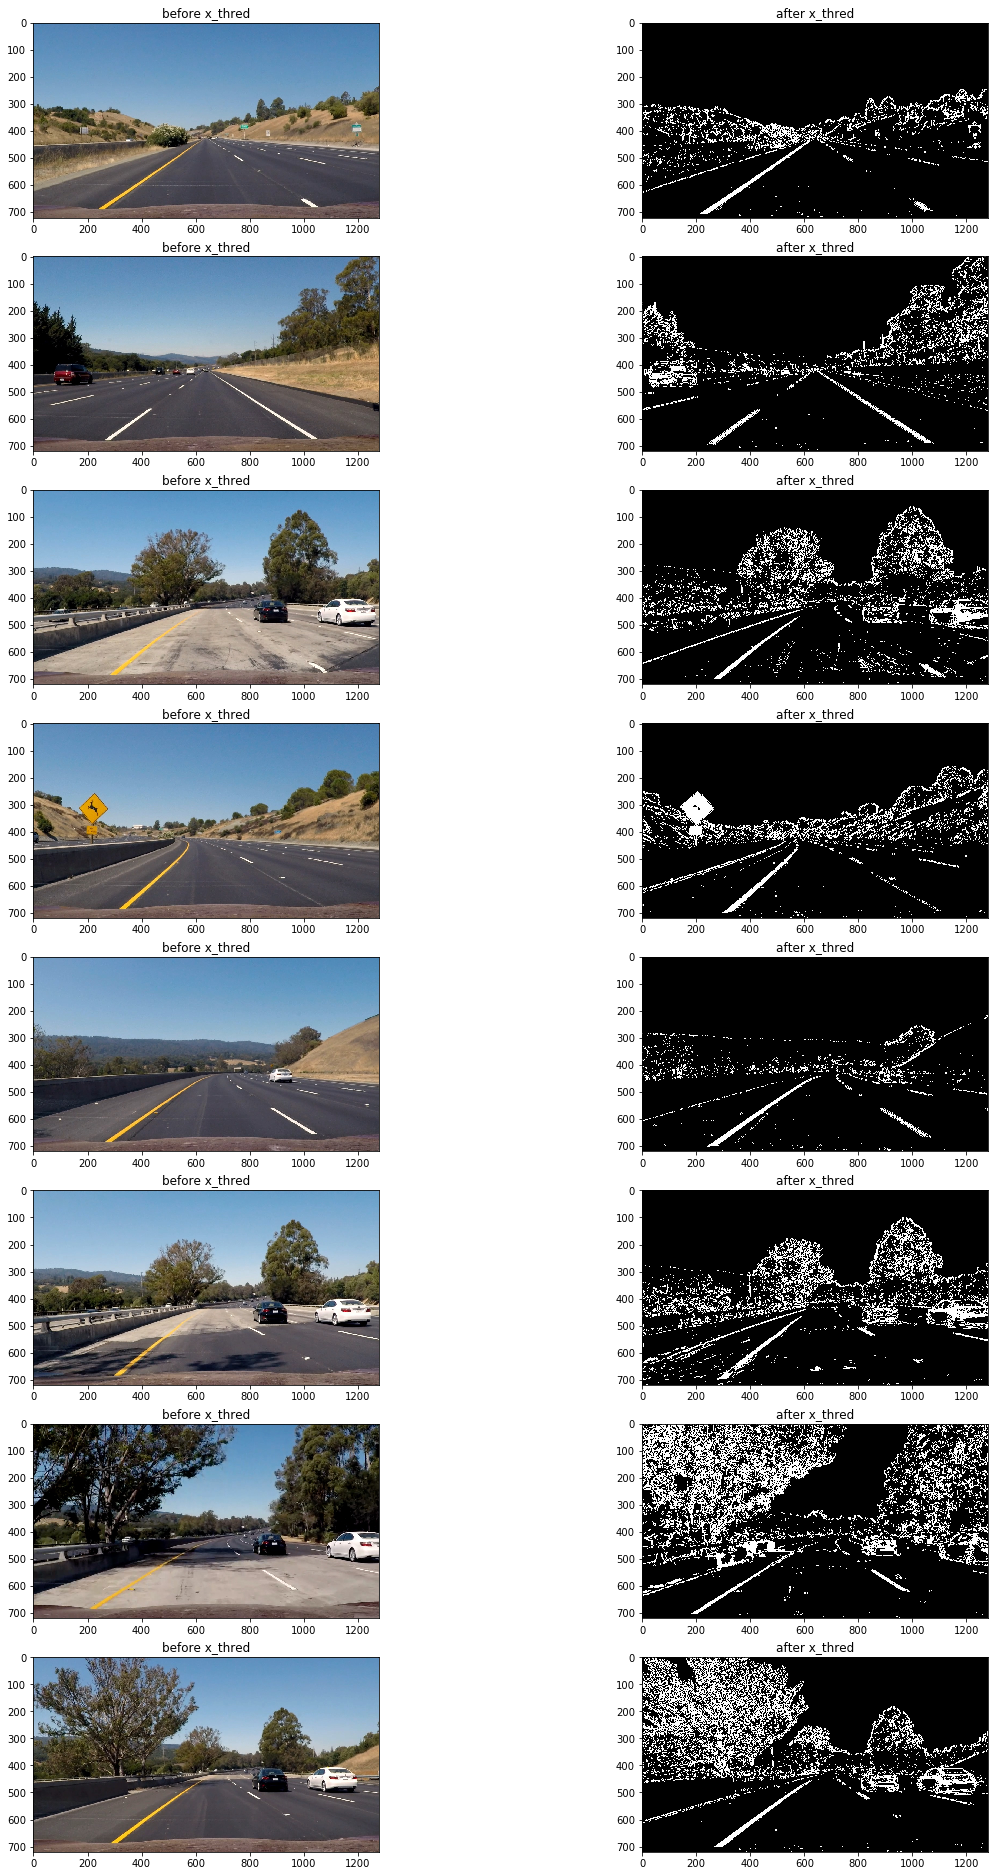
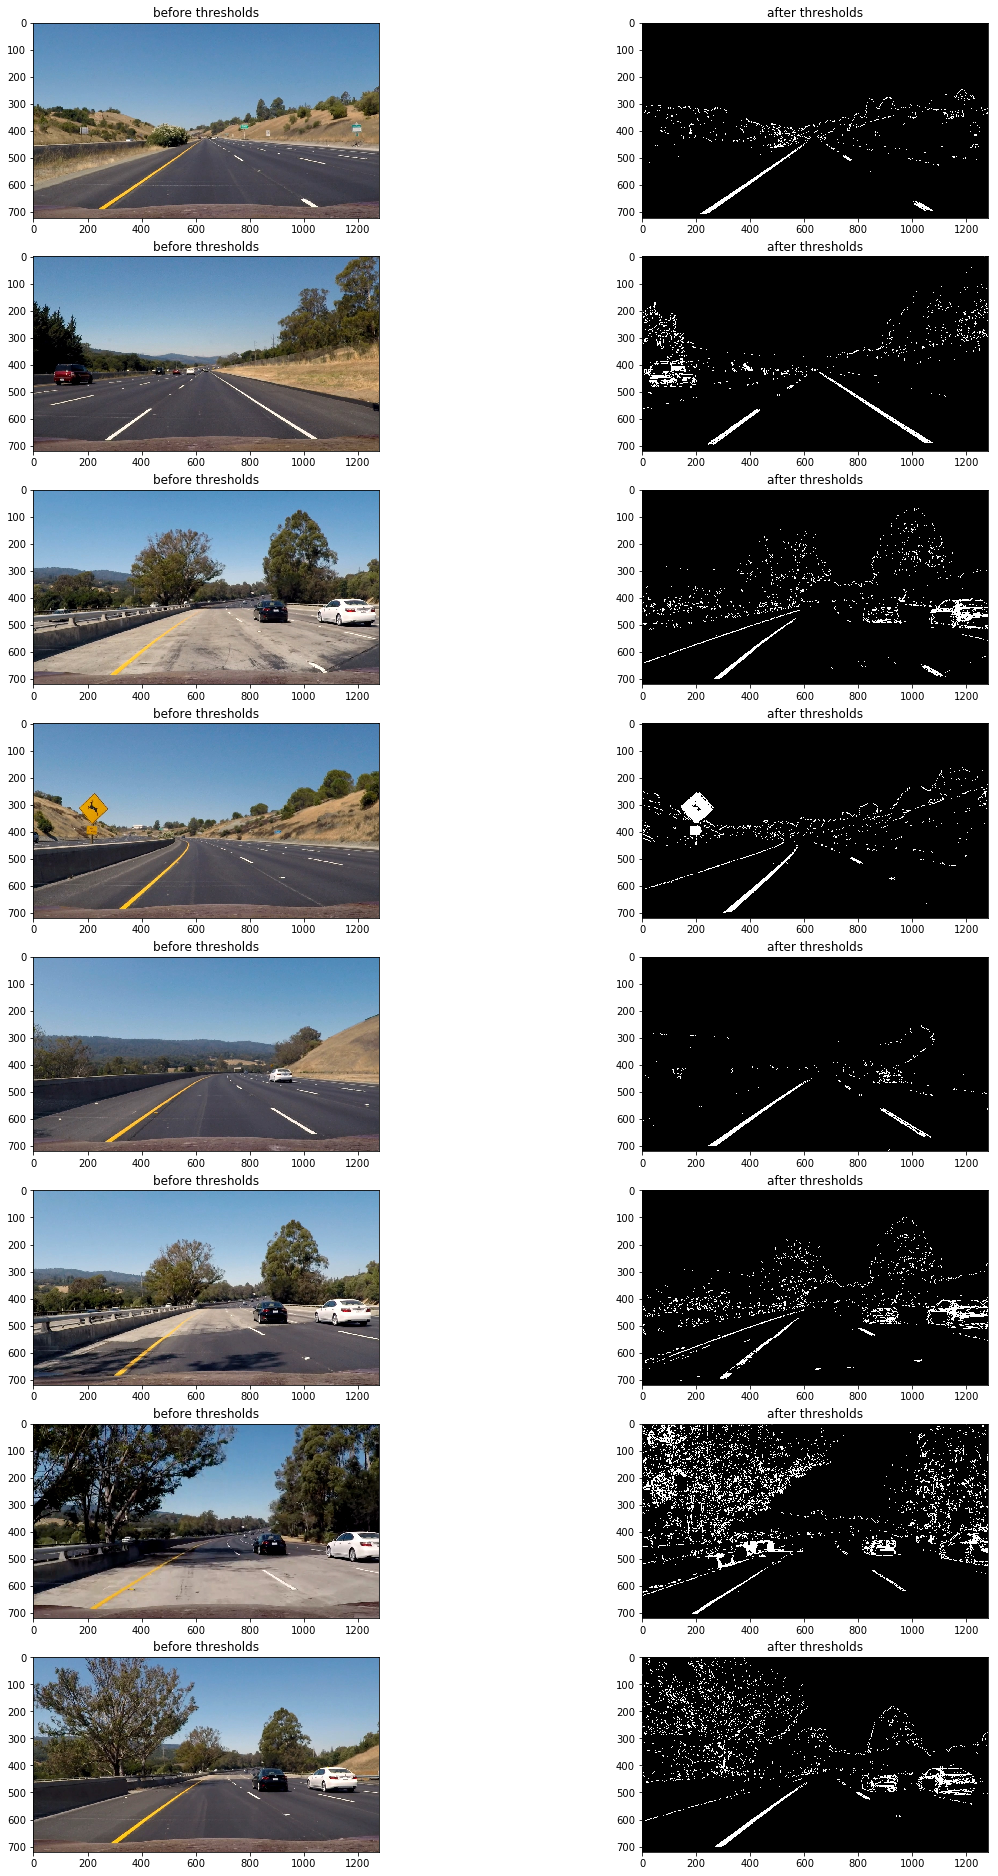
add image

diff --git a/processImage.py b/processImage.py
@@ -47,123 +47,123 @@ for img in undistorted:
     thresh.append(combined)
     
 
-plt.figure(figsize=(20,68))
-i=0
-for binary_warped in binary_wrapeds:
-    # Take a histogram of the bottom half of the image
-    histogram = np.sum(binary_warped[binary_warped.shape[0]//2:,:], axis=0)
-    # Create an output image to draw on and  visualize the result
-    out_img = np.dstack((binary_warped, binary_warped, binary_warped))*255
-    # Find the peak of the left and right halves of the histogram
-    # These will be the starting point for the left and right lines
-    midpoint = np.int(histogram.shape[0]/2)
-    leftx_base = np.argmax(histogram[:midpoint])
-    rightx_base = np.argmax(histogram[midpoint:]) + midpoint
-    
-    # Choose the number of sliding windows
-    nwindows = 9
-    # Set height of windows
-    window_height = np.int(binary_warped.shape[0]/nwindows)
-    # Identify the x and y positions of all nonzero pixels in the image
-    nonzero = binary_warped.nonzero()
-    nonzeroy = np.array(nonzero[0])
-    nonzerox = np.array(nonzero[1])
-    # Current positions to be updated for each window
-    leftx_current = leftx_base
-    rightx_current = rightx_base
-    # Set the width of the windows +/- margin
-    margin = 100
-    # Set minimum number of pixels found to recenter window
-    minpix = 50
-    # Create empty lists to receive left and right lane pixel indices
-    left_lane_inds = []
-    right_lane_inds = []
-    
-    # Step through the windows one by one
-    for window in range(nwindows):
-        # Identify window boundaries in x and y (and right and left)
-        win_y_low = binary_warped.shape[0] - (window+1)*window_height
-        win_y_high = binary_warped.shape[0] - window*window_height
-        win_xleft_low = leftx_current - margin
-        win_xleft_high = leftx_current + margin
-        win_xright_low = rightx_current - margin
-        win_xright_high = rightx_current + margin
-        # Draw the windows on the visualization image
-        cv2.rectangle(out_img,(win_xleft_low,win_y_low),(win_xleft_high,win_y_high),
-        (0,255,0), 2) 
-        cv2.rectangle(out_img,(win_xright_low,win_y_low),(win_xright_high,win_y_high),
-        (0,255,0), 2) 
-        # Identify the nonzero pixels in x and y within the window
-        good_left_inds = ((nonzeroy >= win_y_low) & (nonzeroy < win_y_high) & 
-        (nonzerox >= win_xleft_low) &  (nonzerox < win_xleft_high)).nonzero()[0]
-        good_right_inds = ((nonzeroy >= win_y_low) & (nonzeroy < win_y_high) & 
-        (nonzerox >= win_xright_low) &  (nonzerox < win_xright_high)).nonzero()[0]
-        # Append these indices to the lists
-        left_lane_inds.append(good_left_inds)
-        right_lane_inds.append(good_right_inds)
-        # If you found > minpix pixels, recenter next window on their mean position
-        if len(good_left_inds) > minpix:
-            leftx_current = np.int(np.mean(nonzerox[good_left_inds]))
-        if len(good_right_inds) > minpix:        
-            rightx_current = np.int(np.mean(nonzerox[good_right_inds]))
-    
-    # Concatenate the arrays of indices
-    left_lane_inds = np.concatenate(left_lane_inds)
-    right_lane_inds = np.concatenate(right_lane_inds)
-    
-    # Extract left and right line pixel positions
-    leftx = nonzerox[left_lane_inds]
-    lefty = nonzeroy[left_lane_inds] 
-    rightx = nonzerox[right_lane_inds]
-    righty = nonzeroy[right_lane_inds] 
-    
-    # Fit a second order polynomial to each
-    left_fit = np.polyfit(lefty, leftx, 2)
-    right_fit = np.polyfit(righty, rightx, 2)
-    
-    # Generate x and y values for plotting
-    ploty = np.linspace(0, binary_warped.shape[0]-1, binary_warped.shape[0] )
-    left_fitx = left_fit[0]*ploty**2 + left_fit[1]*ploty + left_fit[2]
-    right_fitx = right_fit[0]*ploty**2 + right_fit[1]*ploty + right_fit[2]
-    
-    plt.subplot(2*len(thresh),2,2*i+1)
-    plt.imshow(binary_warped,cmap ='gray')
-    
-    plt.subplot(2*len(thresh),2,2*i+2)
-    i+=1
-
-    out_img[nonzeroy[left_lane_inds], nonzerox[left_lane_inds]] = [255, 0, 0]
-    out_img[nonzeroy[right_lane_inds], nonzerox[right_lane_inds]] = [0, 0, 255]
-    plt.imshow(out_img)
-    plt.plot(left_fitx, ploty, color='yellow')
-    plt.plot(right_fitx, ploty, color='yellow')
-    plt.xlim(0, 1280)
-    plt.ylim(720, 0)
+#plt.figure(figsize=(20,68))
+#i=0
+#for binary_warped in binary_wrapeds:
+#    # Take a histogram of the bottom half of the image
+#    histogram = np.sum(binary_warped[binary_warped.shape[0]//2:,:], axis=0)
+#    # Create an output image to draw on and  visualize the result
+#    out_img = np.dstack((binary_warped, binary_warped, binary_warped))*255
+#    # Find the peak of the left and right halves of the histogram
+#    # These will be the starting point for the left and right lines
+#    midpoint = np.int(histogram.shape[0]/2)
+#    leftx_base = np.argmax(histogram[:midpoint])
+#    rightx_base = np.argmax(histogram[midpoint:]) + midpoint
+#    
+#    # Choose the number of sliding windows
+#    nwindows = 9
+#    # Set height of windows
+#    window_height = np.int(binary_warped.shape[0]/nwindows)
+#    # Identify the x and y positions of all nonzero pixels in the image
+#    nonzero = binary_warped.nonzero()
+#    nonzeroy = np.array(nonzero[0])
+#    nonzerox = np.array(nonzero[1])
+#    # Current positions to be updated for each window
+#    leftx_current = leftx_base
+#    rightx_current = rightx_base
+#    # Set the width of the windows +/- margin
+#    margin = 100
+#    # Set minimum number of pixels found to recenter window
+#    minpix = 50
+#    # Create empty lists to receive left and right lane pixel indices
+#    left_lane_inds = []
+#    right_lane_inds = []
+#    
+#    # Step through the windows one by one
+#    for window in range(nwindows):
+#        # Identify window boundaries in x and y (and right and left)
+#        win_y_low = binary_warped.shape[0] - (window+1)*window_height
+#        win_y_high = binary_warped.shape[0] - window*window_height
+#        win_xleft_low = leftx_current - margin
+#        win_xleft_high = leftx_current + margin
+#        win_xright_low = rightx_current - margin
+#        win_xright_high = rightx_current + margin
+#        # Draw the windows on the visualization image
+#        cv2.rectangle(out_img,(win_xleft_low,win_y_low),(win_xleft_high,win_y_high),
+#        (0,255,0), 2) 
+#        cv2.rectangle(out_img,(win_xright_low,win_y_low),(win_xright_high,win_y_high),
+#        (0,255,0), 2) 
+#        # Identify the nonzero pixels in x and y within the window
+#        good_left_inds = ((nonzeroy >= win_y_low) & (nonzeroy < win_y_high) & 
+#        (nonzerox >= win_xleft_low) &  (nonzerox < win_xleft_high)).nonzero()[0]
+#        good_right_inds = ((nonzeroy >= win_y_low) & (nonzeroy < win_y_high) & 
+#        (nonzerox >= win_xright_low) &  (nonzerox < win_xright_high)).nonzero()[0]
+#        # Append these indices to the lists
+#        left_lane_inds.append(good_left_inds)
+#        right_lane_inds.append(good_right_inds)
+#        # If you found > minpix pixels, recenter next window on their mean position
+#        if len(good_left_inds) > minpix:
+#            leftx_current = np.int(np.mean(nonzerox[good_left_inds]))
+#        if len(good_right_inds) > minpix:        
+#            rightx_current = np.int(np.mean(nonzerox[good_right_inds]))
+#    
+#    # Concatenate the arrays of indices
+#    left_lane_inds = np.concatenate(left_lane_inds)
+#    right_lane_inds = np.concatenate(right_lane_inds)
+#    
+#    # Extract left and right line pixel positions
+#    leftx = nonzerox[left_lane_inds]
+#    lefty = nonzeroy[left_lane_inds] 
+#    rightx = nonzerox[right_lane_inds]
+#    righty = nonzeroy[right_lane_inds] 
+#    
+#    # Fit a second order polynomial to each
+#    left_fit = np.polyfit(lefty, leftx, 2)
+#    right_fit = np.polyfit(righty, rightx, 2)
+#    
+#    # Generate x and y values for plotting
+#    ploty = np.linspace(0, binary_warped.shape[0]-1, binary_warped.shape[0] )
+#    left_fitx = left_fit[0]*ploty**2 + left_fit[1]*ploty + left_fit[2]
+#    right_fitx = right_fit[0]*ploty**2 + right_fit[1]*ploty + right_fit[2]
+#    
+#    plt.subplot(2*len(thresh),2,2*i+1)
+#    plt.imshow(binary_warped,cmap ='gray')
+#    
+#    plt.subplot(2*len(thresh),2,2*i+2)
+#    i+=1
+#
+#    out_img[nonzeroy[left_lane_inds], nonzerox[left_lane_inds]] = [255, 0, 0]
+#    out_img[nonzeroy[right_lane_inds], nonzerox[right_lane_inds]] = [0, 0, 255]
+#    plt.imshow(out_img)
+#    plt.plot(left_fitx, ploty, color='yellow')
+#    plt.plot(right_fitx, ploty, color='yellow')
+#    plt.xlim(0, 1280)
+#    plt.ylim(720, 0)
 
     
    
-#plt.figure(figsize=(20,68))
-#for i in range(len(thresh)):
-#    
-#    plt.subplot(2*len(thresh),2,2*i+1)
-#    plt.title('before x_thred')
-#    plt.imshow(test_imgs[i][:,:,::-1])
-#    
-#    plt.subplot(2*len(thresh),2,2*i+2)
-#    plt.title('after x_thred')
-#    plt.imshow(thresh[i],cmap ='gray')
-#    
 plt.figure(figsize=(20,68))
 for i in range(len(thresh)):
     
     plt.subplot(2*len(thresh),2,2*i+1)
-    plt.title('thresholded_wraped image')
-    plt.imshow(thresh[i],cmap ='gray')
+    plt.title('before thresholds')
+    plt.imshow(test_imgs[i][:,:,::-1])
     
     plt.subplot(2*len(thresh),2,2*i+2)
-    plt.title('histogram')
-    plt.plot(histogram[i])
-    
+    plt.title('after thresholds')
+    plt.imshow(thresh[i],cmap ='gray')
+#    
+#plt.figure(figsize=(20,68))
+#for i in range(len(thresh)):
+#    
+#    plt.subplot(2*len(thresh),2,2*i+1)
+#    plt.title('thresholded_wraped image')
+#    plt.imshow(thresh[i],cmap ='gray')
+#    
+#    plt.subplot(2*len(thresh),2,2*i+2)
+#    plt.title('histogram')
+#    plt.plot(histogram[i])
+#    
 #undist = utils.cal_undistort(cal_imgs[0],object_points,img_points)
 #plt.figure(figsize=(20,10))
 #plt.subplot(2,2,1)
